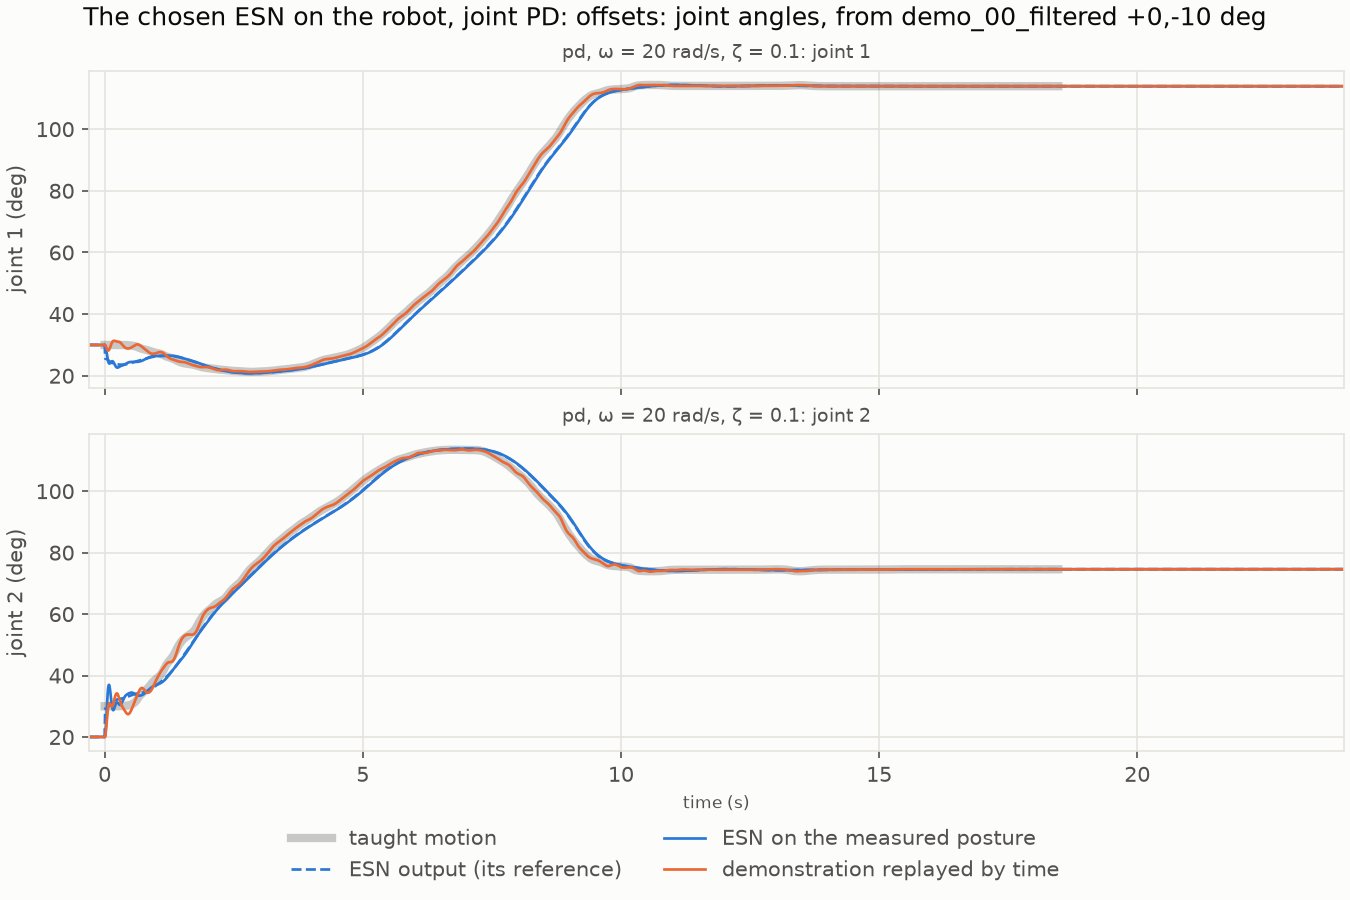
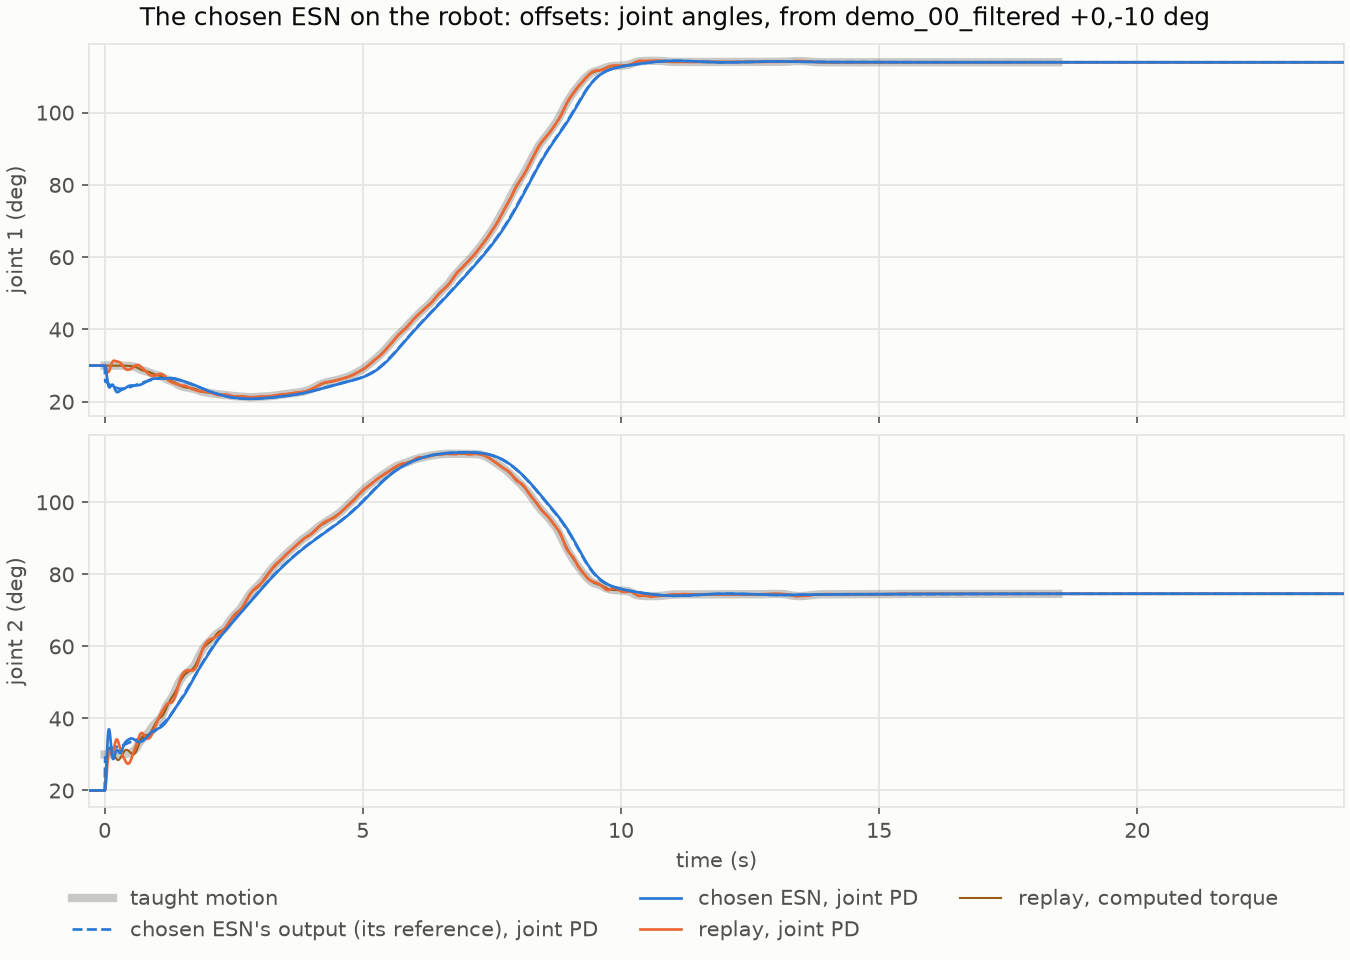
docs(reports): the replay with computed torque in the joint and torque plots
Reports 006 and 007 draw the joint angles and torques of the three arms they
compare: the chosen ESN and the replay with joint PD, and the replay with
computed torque. A computed torque far beyond the joint PD arms' range, as the
replay's jump to the take's start from an offset start, is written in the
panel instead of flattening them.

diff --git a/reports/006-wider-search-on-the-robot/make_figures.py b/reports/006-wider-search-on-the-robot/make_figures.py
@@ -19,8 +19,7 @@ and prints the tables of the report. The validation compares the arms of COMPARE
 the chosen ESN and the replay with joint PD, and the replay with computed torque;
 the chosen ESN with computed torque is a note. With ``--logs``, it reads the runs'
 logs, which are not kept in Git, from the runs under the storage root, and also
-draws, with ``experiments/robot_esn.py``'s own functions, the joint angles and the
-joint torques of the chosen ESN's arm and the replay with joint PD in the
+draws the joint angles and the joint torques of the arms of COMPARED in the
 undisturbed run, the block, the pushes, and the offset starts of OFFSETS
 (``<scenario>_joints.png`` and ``<scenario>_torques.png``, Section 3.8), and how far
 each compared arm goes from the taught path under the block and the pushes
@@ -556,23 +555,91 @@ def runner(name: str) -> Any:
 
 
 def plot_runs(scenario: str, offset: tuple[float, float] = (0.0, 0.0)) -> tuple[Figure, Figure]:
-    """The joint angles and the joint torques of the chosen ESN's run of a scenario, by robot_esn.py's functions.
+    """The joint angles and the joint torques over time of the compared arms in a scenario's run.
 
     The run is the one from the start offset by ``offset`` (deg) from the
-    demonstrated start, with joint PD; the figures show the replay with it too.
+    demonstrated start. One panel per joint draws the taught motion (thick gray),
+    the chosen ESN's output (dashed) and arm with joint PD, and the replay's arm with
+    joint PD and with computed torque (COMPARED); the disturbances are shaded. The
+    torques' axis keeps to the range of the arms with joint PD, so that a computed
+    torque far beyond it, such as the replay's jump to the take's start from an
+    offset start, does not flatten them: its peak is written in the panel instead.
     """
     robot_esn = runner("robot_esn")
     stem = stem_of(scenario)
     setup, config = robot_setup(stem)
-    settings = [setting for setting in robot_esn.tracker_settings(config["tracker"]) if setting.name == PD]
     spans = disturbance_spans(config.get("disturbance"))
     start = start_of(stem, "esn", offset)
-    title = f"The chosen ESN on the robot, joint PD: {scenario}"
-    directory = run_dir(stem)
-    return (
-        robot_esn.plot_joints(directory, setup, settings, spans, title, start),
-        robot_esn.plot_torques(directory, setup, settings, spans, title, start),
-    )
+    logs = {
+        (arm, setting): StateLog.load(run_dir(stem) / setting / f"{arm}_{start:02d}.sklog.npz")
+        for arm, setting, *_ in COMPARED
+    }
+    taught_times, taught_q, taught_label = robot_esn.demonstrated_motion(setup, start)
+    duration = float(setup.times[-1])
+    figures = []
+    for quantity, channel, unit in (("angles", "q", "deg"), ("torques", "tau", "N m")):
+        fig = Figure(figsize=(9.0, 6.4), facecolor=SURFACE_COLOR, layout="constrained")
+        fig.suptitle(
+            f"The chosen ESN on the robot: {scenario}: joint {quantity}, from {setup.starts[start].origin}",
+            color="#0b0b0b",
+        )
+        axes = fig.subplots(setup.skeleton.num_joints, 1, sharex=True)
+        for joint, ax in enumerate(axes):
+            style(ax)
+            for span in spans:
+                ax.axvspan(*span, color=DISTURBANCE_COLOR, zorder=0)
+            if channel == "q":
+                ax.plot(
+                    taught_times,
+                    np.degrees(taught_q[:, joint]),
+                    color="#52514e",
+                    linewidth=4,
+                    alpha=0.3,
+                    label=taught_label,
+                )
+                esn = logs["esn", PD]
+                reference = esn.channel("q_ref").reshape(len(esn.times), -1)[:, joint]
+                ax.plot(
+                    esn.times,
+                    np.degrees(reference),
+                    color=ESN_COLOR,
+                    linewidth=1.3,
+                    linestyle="--",
+                    label="chosen ESN's output (its reference), joint PD",
+                )
+            pd_values = []
+            for i, (arm, setting, label, color) in enumerate(COMPARED):
+                log = logs[arm, setting]
+                values = log.channel(channel).reshape(len(log.times), -1)[:, joint]
+                values = np.degrees(values) if channel == "q" else values
+                width = 1.3 if setting == PD else 1.0
+                # The chosen ESN on top, the replay with computed torque beneath.
+                ax.plot(log.times, values, color=color, linewidth=width, label=label, zorder=2 + len(COMPARED) - i)
+                if setting == PD:
+                    pd_values.append(values)
+                elif channel == "tau":
+                    low, high = min(v.min() for v in pd_values), max(v.max() for v in pd_values)
+                    margin = 0.15 * (high - low)
+                    peak = int(np.argmax(np.abs(values)))
+                    if values[peak] > high + margin or values[peak] < low - margin:
+                        ax.set_ylim(low - margin, high + margin)
+                        ax.text(
+                            0.99,
+                            0.95,
+                            f"{label}: {values[peak]:+.0f} N m at {log.times[peak]:.2f} s, off scale",
+                            transform=ax.transAxes,
+                            ha="right",
+                            va="top",
+                            fontsize=8,
+                            color=color,
+                        )
+            ax.set_xlim(-0.3, duration)
+            ax.set_ylabel(f"joint {joint + 1} ({unit})", color=TEXT_COLOR)
+        axes[-1].set_xlabel("time (s)", color=TEXT_COLOR)
+        handles, labels = axes[0].get_legend_handles_labels()
+        fig.legend(handles, labels, loc="outside lower center", ncol=3, frameon=False, labelcolor=TEXT_COLOR)
+        figures.append(fig)
+    return figures[0], figures[1]
 
 
 def path_distances(scenario: str, setting: str, arm: str) -> tuple[NDArray[np.float64], NDArray[np.float64]]:

diff --git a/reports/007-ringing-with-joint-pd/make_figures.py b/reports/007-ringing-with-joint-pd/make_figures.py
@@ -17,8 +17,7 @@ and prints the tables of the report. The validation compares the arms of COMPARE
 the chosen ESN and the replay with joint PD, and the replay with computed torque;
 the chosen ESN with computed torque is a note. With ``--logs``, it reads the runs'
 logs, which are not kept in Git, from the runs under the storage root, and also
-draws, with ``experiments/robot_esn.py``'s own functions, the joint angles and the
-joint torques of the chosen ESN's arm and the replay with joint PD in the
+draws the joint angles and the joint torques of the arms of COMPARED in the
 undisturbed run, the block, the pushes, and the offset starts of OFFSETS
 (``<scenario>_joints.png`` and ``<scenario>_torques.png``, Section 3.6), and how far
 each compared arm goes from the taught path under the block and the pushes
@@ -462,23 +461,91 @@ def runner(name: str) -> Any:
 
 
 def plot_runs(scenario: str, offset: tuple[float, float] = (0.0, 0.0)) -> tuple[Figure, Figure]:
-    """The joint angles and the joint torques of the chosen ESN's run of a scenario, by robot_esn.py's functions.
+    """The joint angles and the joint torques over time of the compared arms in a scenario's run.
 
     The run is the one from the start offset by ``offset`` (deg) from the
-    demonstrated start, with joint PD; the figures show the replay with it too.
+    demonstrated start. One panel per joint draws the taught motion (thick gray),
+    the chosen ESN's output (dashed) and arm with joint PD, and the replay's arm with
+    joint PD and with computed torque (COMPARED); the disturbances are shaded. The
+    torques' axis keeps to the range of the arms with joint PD, so that a computed
+    torque far beyond it, such as the replay's jump to the take's start from an
+    offset start, does not flatten them: its peak is written in the panel instead.
     """
     robot_esn = runner("robot_esn")
     stem = stem_of(scenario)
     setup, config = robot_setup(stem)
-    settings = [setting for setting in robot_esn.tracker_settings(config["tracker"]) if setting.name == PD]
     spans = disturbance_spans(config.get("disturbance"))
     start = start_of(stem, "esn", offset)
-    title = f"The chosen ESN on the robot, joint PD: {scenario}"
-    directory = run_dir(stem)
-    return (
-        robot_esn.plot_joints(directory, setup, settings, spans, title, start),
-        robot_esn.plot_torques(directory, setup, settings, spans, title, start),
-    )
+    logs = {
+        (arm, setting): StateLog.load(run_dir(stem) / setting / f"{arm}_{start:02d}.sklog.npz")
+        for arm, setting, *_ in COMPARED
+    }
+    taught_times, taught_q, taught_label = robot_esn.demonstrated_motion(setup, start)
+    duration = float(setup.times[-1])
+    figures = []
+    for quantity, channel, unit in (("angles", "q", "deg"), ("torques", "tau", "N m")):
+        fig = Figure(figsize=(9.0, 6.4), facecolor=SURFACE_COLOR, layout="constrained")
+        fig.suptitle(
+            f"The chosen ESN on the robot: {scenario}: joint {quantity}, from {setup.starts[start].origin}",
+            color="#0b0b0b",
+        )
+        axes = fig.subplots(setup.skeleton.num_joints, 1, sharex=True)
+        for joint, ax in enumerate(axes):
+            style(ax)
+            for span in spans:
+                ax.axvspan(*span, color=DISTURBANCE_COLOR, zorder=0)
+            if channel == "q":
+                ax.plot(
+                    taught_times,
+                    np.degrees(taught_q[:, joint]),
+                    color="#52514e",
+                    linewidth=4,
+                    alpha=0.3,
+                    label=taught_label,
+                )
+                esn = logs["esn", PD]
+                reference = esn.channel("q_ref").reshape(len(esn.times), -1)[:, joint]
+                ax.plot(
+                    esn.times,
+                    np.degrees(reference),
+                    color=ESN_COLOR,
+                    linewidth=1.3,
+                    linestyle="--",
+                    label="chosen ESN's output (its reference), joint PD",
+                )
+            pd_values = []
+            for i, (arm, setting, label, color) in enumerate(COMPARED):
+                log = logs[arm, setting]
+                values = log.channel(channel).reshape(len(log.times), -1)[:, joint]
+                values = np.degrees(values) if channel == "q" else values
+                width = 1.3 if setting == PD else 1.0
+                # The chosen ESN on top, the replay with computed torque beneath.
+                ax.plot(log.times, values, color=color, linewidth=width, label=label, zorder=2 + len(COMPARED) - i)
+                if setting == PD:
+                    pd_values.append(values)
+                elif channel == "tau":
+                    low, high = min(v.min() for v in pd_values), max(v.max() for v in pd_values)
+                    margin = 0.15 * (high - low)
+                    peak = int(np.argmax(np.abs(values)))
+                    if values[peak] > high + margin or values[peak] < low - margin:
+                        ax.set_ylim(low - margin, high + margin)
+                        ax.text(
+                            0.99,
+                            0.95,
+                            f"{label}: {values[peak]:+.0f} N m at {log.times[peak]:.2f} s, off scale",
+                            transform=ax.transAxes,
+                            ha="right",
+                            va="top",
+                            fontsize=8,
+                            color=color,
+                        )
+            ax.set_xlim(-0.3, duration)
+            ax.set_ylabel(f"joint {joint + 1} ({unit})", color=TEXT_COLOR)
+        axes[-1].set_xlabel("time (s)", color=TEXT_COLOR)
+        handles, labels = axes[0].get_legend_handles_labels()
+        fig.legend(handles, labels, loc="outside lower center", ncol=3, frameon=False, labelcolor=TEXT_COLOR)
+        figures.append(fig)
+    return figures[0], figures[1]
 
 
 def path_distances(scenario: str, setting: str, arm: str) -> tuple[NDArray[np.float64], NDArray[np.float64]]:

diff --git a/reports/007-ringing-with-joint-pd/README.md b/reports/007-ringing-with-joint-pd/README.md
@@ -119,11 +119,10 @@ chosen ESN's its trained ESN; the offsets run holds its map and its hand paths
 of the pushes (Section 3.1), without saving them, in about two minutes.
 [`make_figures.py`](make_figures.py) draws `grid.png` and prints the tables of
 Section 3 from the copies. With `--logs`, it reads the runs' logs under the storage
-root, which are not kept in Git, to draw the joint angles and torques of the chosen
-ESN and the replay with joint PD (`<scenario>_joints.png`, `<scenario>_torques.png`,
-with `robot_esn.py`'s own functions) and each compared arm's distance from the
-taught path under the block and the pushes (`disturbances.png`), and to print the
-forces under the block. With `--animations`, it exports `nominal.gif`, `block.gif`,
+root, which are not kept in Git, to draw the joint angles and torques of the three
+compared arms (`<scenario>_joints.png`, `<scenario>_torques.png`) and their distance
+from the taught path under the block and the pushes (`disturbances.png`), and to
+print the forces under the block. With `--animations`, it exports `nominal.gif`, `block.gif`,
 `pushes.gif`, `offset.gif`, and `offset_straight.gif`, each arm rendered by
 skelarm's player. With `--videos`, it exports the runs of those five animations,
 for both arms and both trackers, as 20 MP4s for slides into
@@ -327,9 +326,12 @@ The animations show three arms side by side on one clock, each rendered by
 skelarm's player; the purple dot is the target, the red arrow the force at the tip.
 Each panel names the arm's reference and its tracker: the chosen ESN and the replay
 of the take by time through joint PD, and the replay through computed torque. The
-figures show the joint angles with joint PD (the taught motion, thick gray; the
-ESN's output, dashed blue; the ESN's arm, blue; the replay's arm, orange) and the
-joint torques; the disturbances are shaded.
+figures show the joint angles (the taught motion, thick gray; the chosen ESN's
+output, dashed blue, and its arm, blue, with joint PD; the replay's arm with joint
+PD, orange, and with computed torque, brown) and the joint torques of the same three
+arms; the disturbances are shaded. Where the replay with computed torque leaves the
+others' range, as when it jumps to the take's start from an offset start, the peak
+of its torque is written in the panel instead.
 
 #### Nominal
 
@@ -371,7 +373,9 @@ After each push, the chosen ESN's output goes with the arm and carries on from
 where it was pushed. After the push forward, its arm runs ahead of the take in
 joint 1 and rejoins it by about 5.5 s; after the push at the target, joint 1 sags
 to 102° and swings back over about 1.5 s. The replay's arm is dragged back at once,
-ringing for 2 to 3 s.
+ringing for 2 to 3 s; with computed torque, it rings much as with joint PD, and its
+torques also jitter between the pushes, following the take's remaining pixel
+steps.
 
 #### Offset starts
 

diff --git a/reports/006-wider-search-on-the-robot/README.md b/reports/006-wider-search-on-the-robot/README.md
@@ -158,9 +158,8 @@ trained ESN; the offsets runs hold their map, the chosen ESN's also its hand pat
 [`make_figures.py`](make_figures.py) draws `stage1.png` and `star.png` and prints the
 tables of Section 3 from those copies. With `--logs`, it reads the runs' logs under
 the storage root, which are not kept in Git, to draw the joint angles and torques of
-the chosen ESN and the replay with joint PD (`<scenario>_joints.png`,
-`<scenario>_torques.png`, with `robot_esn.py`'s own functions) and each compared
-arm's distance from the taught path under the block and the pushes
+the three compared arms (`<scenario>_joints.png`, `<scenario>_torques.png`) and
+their distance from the taught path under the block and the pushes
 (`disturbances.png`), and to print the forces under the block.
 With `--animations`, it exports `nominal.gif`, `block.gif`, `pushes.gif`,
 `offset.gif`, and `offset_straight.gif`, each arm rendered by skelarm's player. With
@@ -466,9 +465,12 @@ The animations show three arms side by side on one clock, each rendered by
 skelarm's player; the purple dot is the target, the red arrow the force at the
 tip. Each panel names the arm's reference and its tracker: the chosen ESN and the
 replay of the take by time through joint PD, and the replay through computed
-torque. The figures show the joint angles with joint PD (the taught motion, thick
-gray; the ESN's output, dashed blue; the ESN's arm, blue; the replay's arm,
-orange) and the joint torques; the disturbances are shaded.
+torque. The figures show the joint angles (the taught motion, thick gray; the
+chosen ESN's output, dashed blue, and its arm, blue, with joint PD; the replay's
+arm with joint PD, orange, and with computed torque, brown) and the joint torques
+of the same three arms; the disturbances are shaded. Where the replay with computed
+torque leaves the others' range, as when it jumps to the take's start from an
+offset start, the peak of its torque is written in the panel instead.
 
 #### Nominal
 
@@ -510,7 +512,9 @@ about 0.6 s behind the take and arrives at 10.2 s.
 After each push, the chosen ESN's output goes with the arm and carries on from
 where it was pushed; its torques peak at 3.0 to 3.2 N m after each push, lower
 than the replay's (3.3 to 4.6 N m), and die out within about 1 s, while the
-replay's ring for 2 to 3 s.
+replay's ring for 2 to 3 s; with computed torque, the replay rings much as with joint
+PD, and its torques also jitter between the pushes, following the take's remaining
+pixel steps.
 
 #### Offset starts
 
